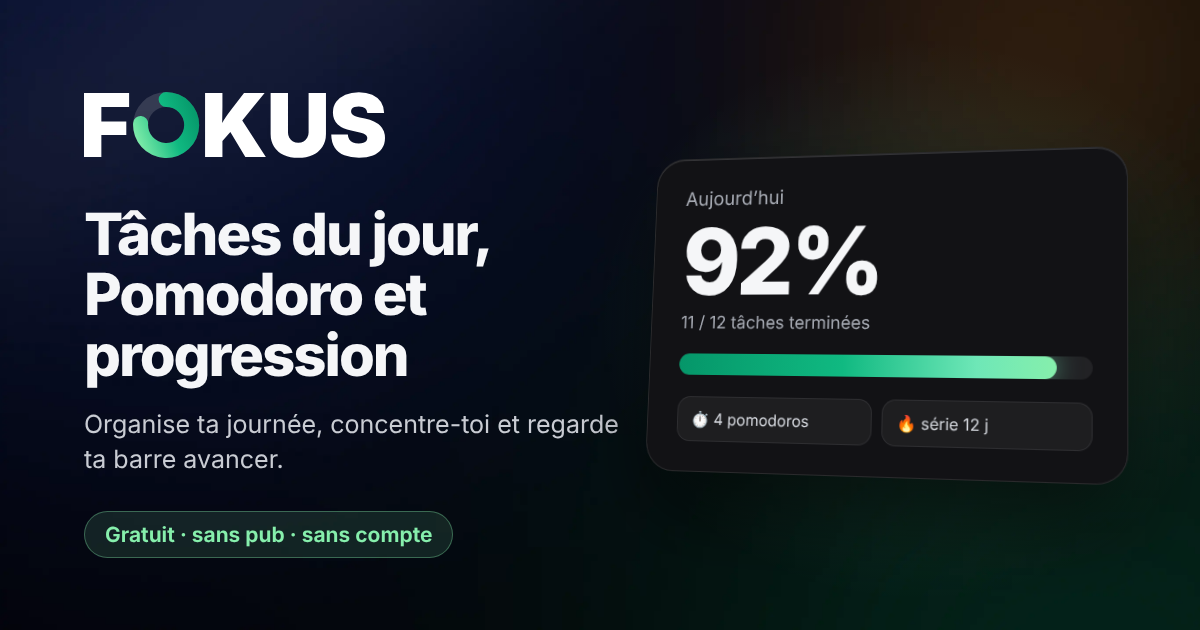
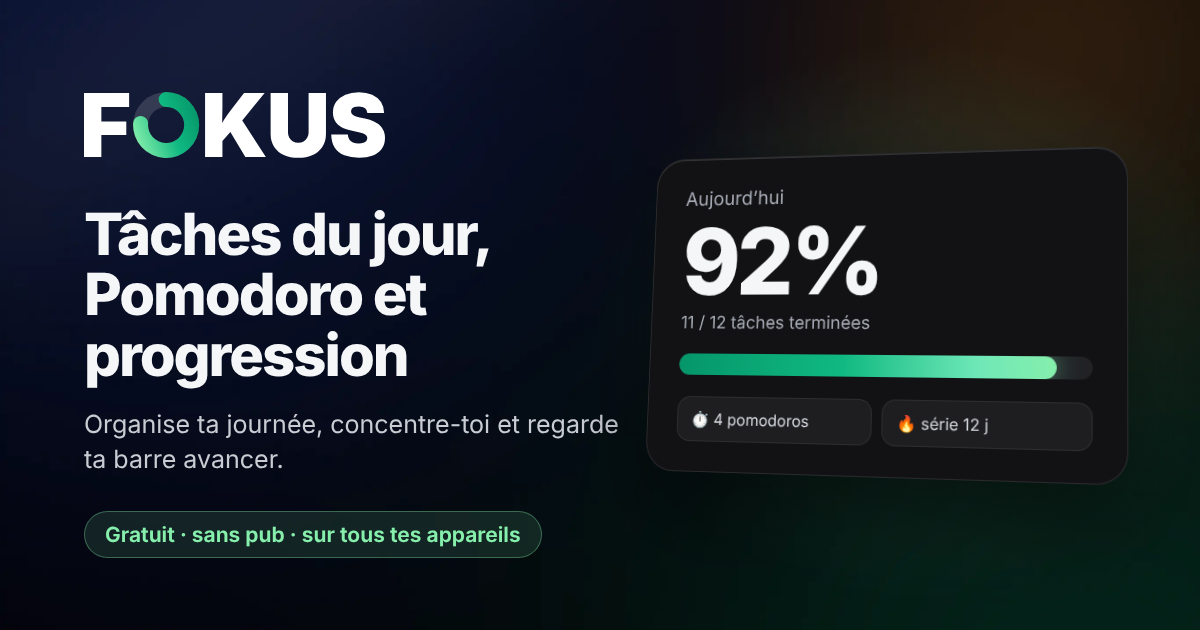
Connexion obligatoire dès la première ouverture (code par e-mail) ; pages publiques et image de partage mises à jour
Claude-Session: https://claude.ai/code/session_01G3xxwsPpyXudR4Mu2HuE6i

Changed region(s): [[0.2467, 0.7841, 0.4625, 0.9048]]

diff --git a/public/decouvrir/index.html b/public/decouvrir/index.html
@@ -5,7 +5,7 @@
   <meta name="viewport" content="width=device-width, initial-scale=1, viewport-fit=cover" />
   <meta name="theme-color" content="#050608" />
   <title>Fokus Track — l'app gratuite pour organiser ta journée et suivre ta progression</title>
-  <meta name="description" content="Fokus Track réunit ta liste de tâches du jour, un minuteur Pomodoro, une chronologie de la journée et le suivi de ta progression avec séries et 90 badges. Gratuit, sans pub, sans compte." />
+  <meta name="description" content="Fokus Track réunit ta liste de tâches du jour, un minuteur Pomodoro, une chronologie de la journée et le suivi de ta progression avec séries et 90 badges. Gratuit, sans pub, sauvegardé sur tous tes appareils." />
   <link rel="canonical" href="https://komesoucaille-fokustrack.github.io/Fokus-app/decouvrir/" />
   <link rel="icon" type="image/svg+xml" href="../favicon.svg" />
   <link rel="apple-touch-icon" href="../apple-touch-icon.png" />
@@ -13,7 +13,7 @@
   <meta property="og:site_name" content="Fokus Track" />
   <meta property="og:locale" content="fr_FR" />
   <meta property="og:title" content="Fokus Track — organise ta journée, suis ta progression" />
-  <meta property="og:description" content="Tâches du jour, minuteur Pomodoro, séries et badges. Gratuit, sans pub, sans compte." />
+  <meta property="og:description" content="Tâches du jour, minuteur Pomodoro, séries et badges. Gratuit et sans pub." />
   <meta property="og:url" content="https://komesoucaille-fokustrack.github.io/Fokus-app/decouvrir/" />
   <meta property="og:image" content="https://komesoucaille-fokustrack.github.io/Fokus-app/og.png" />
   <meta name="twitter:card" content="summary_large_image" />
@@ -48,7 +48,7 @@
         <p class="kicker">Fokus Track</p>
         <h1>Organise ta journée, concentre-toi, regarde ta progression avancer</h1>
         <p class="lead">Fokus Track est une app de tâches du jour avec minuteur Pomodoro et suivi de performance.
-          Chaque tâche validée fait avancer ta barre du jour. Gratuit, sans pub et sans compte.</p>
+          Chaque tâche validée fait avancer ta barre du jour. Gratuit, sans pub, et ta progression te suit sur tous tes appareils.</p>
         <div class="cta">
           <a class="btn" href="../">Ouvrir Fokus</a>
           <a class="btn ghost" href="../pomodoro/">Le minuteur Pomodoro</a>
@@ -90,7 +90,7 @@
 
       <section class="card">
         <h2>🔒 Simple et respectueux</h2>
-        <p>Pas de compte, pas de publicité, aucune fonction payante. Tes données restent sur ton appareil (export en un tap pour les sauvegarder).
+        <p>Pas de publicité, aucune fonction payante. Connexion en 10 secondes avec ton adresse e-mail (un code, pas de mot de passe) : ta progression est sauvegardée et tu la retrouves sur tous tes appareils.
           Une fois installée sur l'écran d'accueil, l'app fonctionne hors ligne, en plein écran, avec notifications.</p>
       </section>
 
@@ -101,7 +101,7 @@
         <details><summary>Fokus Track est-il gratuit ?</summary>
           <p>Oui, entièrement : sans abonnement, sans publicité et sans limite.</p></details>
         <details><summary>Mes tâches sont-elles synchronisées entre mes appareils ?</summary>
-          <p>Pas encore : chaque appareil garde ses propres données. Tu peux exporter tes données d'un appareil et les importer sur un autre.</p></details>
+          <p>Oui : connecte-toi avec la même adresse e-mail sur ton iPad, ton iPhone ou ton ordinateur, tout est synchronisé en quelques secondes.</p></details>
       </section>
 
       <div class="cta" style="justify-content:center;margin-top:26px">
@@ -111,7 +111,7 @@
 
     <footer class="bottom">
       <p><a href="../">Fokus Track</a> · <a href="./">Découvrir l'app</a> · <a href="../pomodoro/">Minuteur Pomodoro</a> · <a href="../confidentialite/">Confidentialité</a></p>
-      <p>Gratuit, sans pub, sans compte. Tes données restent sur ton appareil.</p>
+      <p>Gratuit et sans pub. Ta progression est sauvegardée sur ton compte.</p>
     </footer>
   </div>
 </body>

diff --git a/public/pomodoro/index.html b/public/pomodoro/index.html
@@ -5,7 +5,7 @@
   <meta name="viewport" content="width=device-width, initial-scale=1, viewport-fit=cover" />
   <meta name="theme-color" content="#050608" />
   <title>Minuteur Pomodoro en ligne gratuit, sans pub — Fokus Track</title>
-  <meta name="description" content="Minuteur Pomodoro gratuit en ligne : 25 minutes de concentration, 5 minutes de pause, sons d'ambiance, plein écran et suivi de tes sessions. Sans pub, sans compte, fonctionne sur iPad, iPhone et ordinateur." />
+  <meta name="description" content="Minuteur Pomodoro gratuit en ligne : 25 minutes de concentration, 5 minutes de pause, sons d'ambiance, plein écran et suivi de tes sessions. Gratuit, sans pub, fonctionne sur iPad, iPhone et ordinateur." />
   <link rel="canonical" href="https://komesoucaille-fokustrack.github.io/Fokus-app/pomodoro/" />
   <link rel="icon" type="image/svg+xml" href="../favicon.svg" />
   <link rel="apple-touch-icon" href="../apple-touch-icon.png" />
@@ -13,7 +13,7 @@
   <meta property="og:site_name" content="Fokus Track" />
   <meta property="og:locale" content="fr_FR" />
   <meta property="og:title" content="Minuteur Pomodoro en ligne gratuit — Fokus Track" />
-  <meta property="og:description" content="25 min de concentration, 5 min de pause, sons d'ambiance et suivi de tes sessions. Gratuit, sans pub, sans compte." />
+  <meta property="og:description" content="25 min de concentration, 5 min de pause, sons d'ambiance et suivi de tes sessions. Gratuit et sans pub." />
   <meta property="og:url" content="https://komesoucaille-fokustrack.github.io/Fokus-app/pomodoro/" />
   <meta property="og:image" content="https://komesoucaille-fokustrack.github.io/Fokus-app/og.png" />
   <meta name="twitter:card" content="summary_large_image" />
@@ -48,7 +48,7 @@
         <p class="kicker">Fokus Track · Pomodoro</p>
         <h1>Minuteur Pomodoro en ligne, gratuit et sans pub</h1>
         <p class="lead">Lance une session de concentration en un tap : 25 minutes de travail, 5 minutes de pause, et ton temps est
-          ajouté à ta tâche et à ta journée. Pas de compte, pas de publicité, aucune limite.</p>
+          ajouté à ta tâche et à ta journée. Pas de publicité, aucune limite.</p>
         <div class="cta">
           <a class="btn" href="../?page=4">Lancer le minuteur</a>
           <a class="btn ghost" href="../">Ouvrir mes tâches</a>
@@ -90,7 +90,7 @@
         <details><summary>Le minuteur Pomodoro de Fokus est-il vraiment gratuit ?</summary>
           <p>Oui : entièrement gratuit, sans publicité, sans abonnement et sans fonction bloquée.</p></details>
         <details><summary>Faut-il créer un compte ?</summary>
-          <p>Non. Tes tâches et tes sessions restent sur ton appareil ; tu peux les exporter à tout moment.</p></details>
+          <p>Juste ton adresse e-mail : tu reçois un code à 6 chiffres, pas de mot de passe. Tes tâches et tes sessions sont ainsi sauvegardées et retrouvées sur tous tes appareils.</p></details>
         <details><summary>Est-ce que ça marche sur iPad et iPhone ?</summary>
           <p>Oui. Dans Safari, touche « Partager » puis « Sur l'écran d'accueil » : Fokus s'ouvre alors comme une app, en plein écran et hors ligne.</p></details>
         <details><summary>Le minuteur continue-t-il si je change d'onglet ?</summary>
@@ -104,7 +104,7 @@
 
     <footer class="bottom">
       <p><a href="../">Fokus Track</a> · <a href="../decouvrir/">Découvrir l'app</a> · <a href="./">Minuteur Pomodoro</a> · <a href="../confidentialite/">Confidentialité</a></p>
-      <p>Gratuit, sans pub, sans compte. Tes données restent sur ton appareil.</p>
+      <p>Gratuit et sans pub. Ta progression est sauvegardée sur ton compte.</p>
     </footer>
   </div>
 </body>

diff --git a/index.html b/index.html
@@ -44,14 +44,14 @@
     <link rel="manifest" href="./manifest.webmanifest" />
     <title>Fokus Track — Tâches du jour, minuteur Pomodoro et progression</title>
     <!-- référencement (Google) et aperçu des liens partagés -->
-    <meta name="description" content="Fokus Track : ta liste de tâches du jour, un minuteur Pomodoro et le suivi de ta progression avec séries et badges. Gratuit, sans pub, sans compte, fonctionne hors ligne sur iPad, iPhone et ordinateur." />
+    <meta name="description" content="Fokus Track : ta liste de tâches du jour, un minuteur Pomodoro et le suivi de ta progression avec séries et badges. Gratuit, sans pub, connexion en 10 secondes par e-mail, tout est sauvegardé et retrouvé sur iPad, iPhone et ordinateur." />
     <meta name="application-name" content="Fokus Track" />
     <link rel="canonical" href="https://komesoucaille-fokustrack.github.io/Fokus-app/" />
     <meta property="og:type" content="website" />
     <meta property="og:site_name" content="Fokus Track" />
     <meta property="og:locale" content="fr_FR" />
     <meta property="og:title" content="Fokus Track — Tâches du jour, minuteur Pomodoro et progression" />
-    <meta property="og:description" content="Organise ta journée, concentre-toi avec le minuteur Pomodoro et regarde ta barre de progression avancer. Gratuit, sans pub, sans compte." />
+    <meta property="og:description" content="Organise ta journée, concentre-toi avec le minuteur Pomodoro et regarde ta barre de progression avancer. Gratuit et sans pub." />
     <meta property="og:url" content="https://komesoucaille-fokustrack.github.io/Fokus-app/" />
     <meta property="og:image" content="https://komesoucaille-fokustrack.github.io/Fokus-app/og.png" />
     <meta property="og:image:width" content="1200" />
@@ -65,7 +65,7 @@
         "name": "Fokus",
         "alternateName": ["Fokus Track", "FokusTrack"],
         "url": "https://komesoucaille-fokustrack.github.io/Fokus-app/",
-        "description": "Liste de tâches du jour, minuteur Pomodoro et suivi de progression avec séries et badges. Gratuit, sans pub, sans compte.",
+        "description": "Liste de tâches du jour, minuteur Pomodoro et suivi de progression avec séries et badges, sauvegardés sur ton compte. Gratuit et sans pub.",
         "applicationCategory": "ProductivityApplication",
         "operatingSystem": "iPadOS, iOS, Android, Windows, macOS",
         "inLanguage": "fr",

diff --git a/public/confidentialite/index.html b/public/confidentialite/index.html
@@ -29,7 +29,7 @@
         <h2>📱 Sur ton appareil</h2>
         <p>Tes tâches, ton historique, tes réglages, tes sessions de concentration et tes idées notées sont enregistrés
           dans ton navigateur, sur ton appareil, avec une copie de secours sur ce même appareil.
-          Sans compte, rien n'est envoyé à un serveur. Tu peux tout exporter (Réglages → Données → Exporter) ou tout effacer à tout moment.</p>
+          Une copie est sauvegardée sur ton compte (voir ci-dessous). Tu peux tout exporter (Réglages → Données → Exporter) ou tout effacer à tout moment.</p>
       </section>
 
       <section class="card">

diff --git a/src/cloud-config.js b/src/cloud-config.js
@@ -7,5 +7,5 @@
    - ANALYTICS_TOKEN : jeton Cloudflare Web Analytics (sans cookie, sans donnée personnelle). */
 export const GOOGLE_CLIENT_ID = '';
 export const EMAIL_LOGIN = true;
-export const REQUIRE_LOGIN = false; // phase de test : connexion facultative (Réglages → Compte) ; repasser à true une fois l'envoi des codes vérifié
+export const REQUIRE_LOGIN = true;
 export const ANALYTICS_TOKEN = '';

diff --git a/CLAUDE.md b/CLAUDE.md
@@ -205,7 +205,7 @@ Source unique : `src/lib/colors.js` (`gradFor`, `getColorForPercentage`).
   appareil a écrit) ; conflit = la plus récente gagne + toast « Annuler » ; première connexion avec des données des deux côtés → `CloudChoice`.
   `applyRemote()` garde `pushId` et `LOCAL_SET` (push, pushUrl). Déconnexion (connexion obligatoire) : envoi des dernières modifications
   puis effacement des données de l'appareil (`resetAll(true)`). Méta locale `fokus_cloud`. Page `public/confidentialite/`.
-  À l'activation : retirer « sans compte » des pages Découvrir / Pomodoro, du JSON-LD et de `public/og.png` ; FAQ « synchronisées ? ».
+  **Activé** (connexion par code e-mail, obligatoire dès la 1re ouverture) ; textes publics, JSON-LD, FAQ et `public/og.png` mis à jour.
 - **Statistiques de visites** : Cloudflare Web Analytics (sans cookie) si `ANALYTICS_TOKEN` est renseigné (`main.jsx`, chargé au repos).
 - **Tableau de bord du propriétaire** (Réglages → Administration, `Admin.jsx`, visible seulement si l'adresse du compte est dans le secret
   serveur `ADMIN_EMAILS` ; drapeau `user.admin` à la connexion ou en-tête `X-Fokus-Admin` sur `/sync/get`) : personnes en ligne en direct
